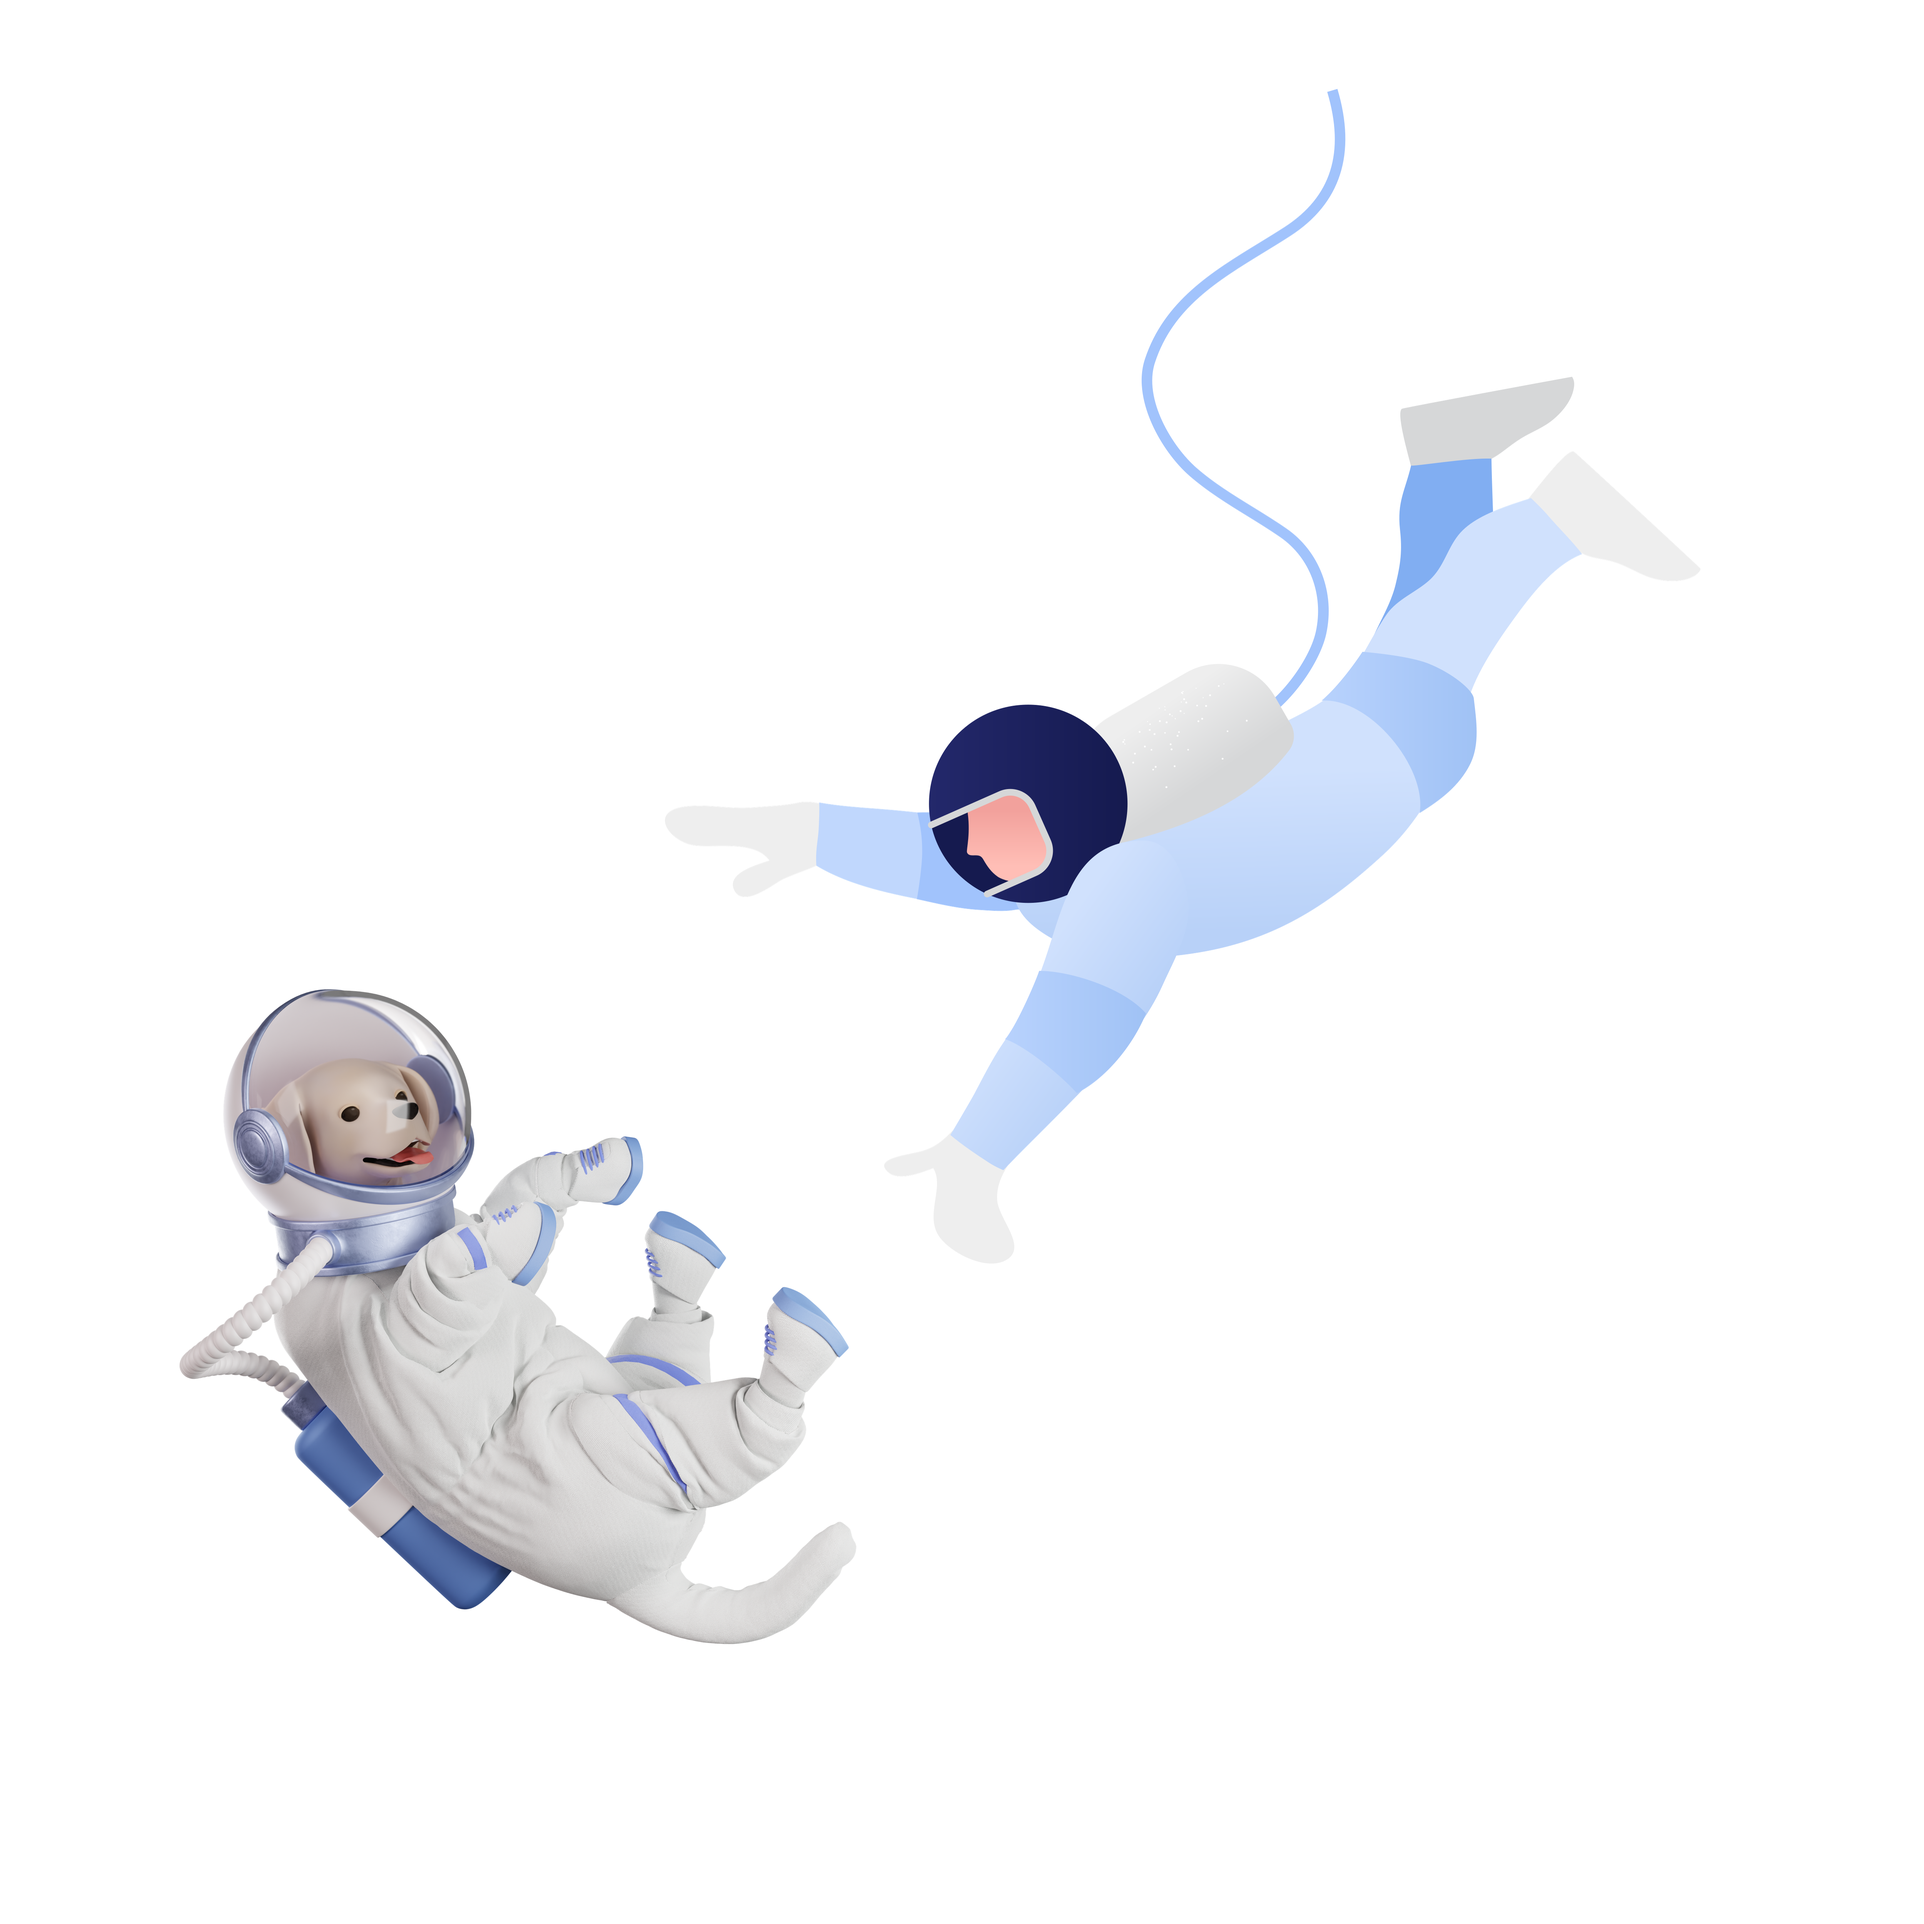
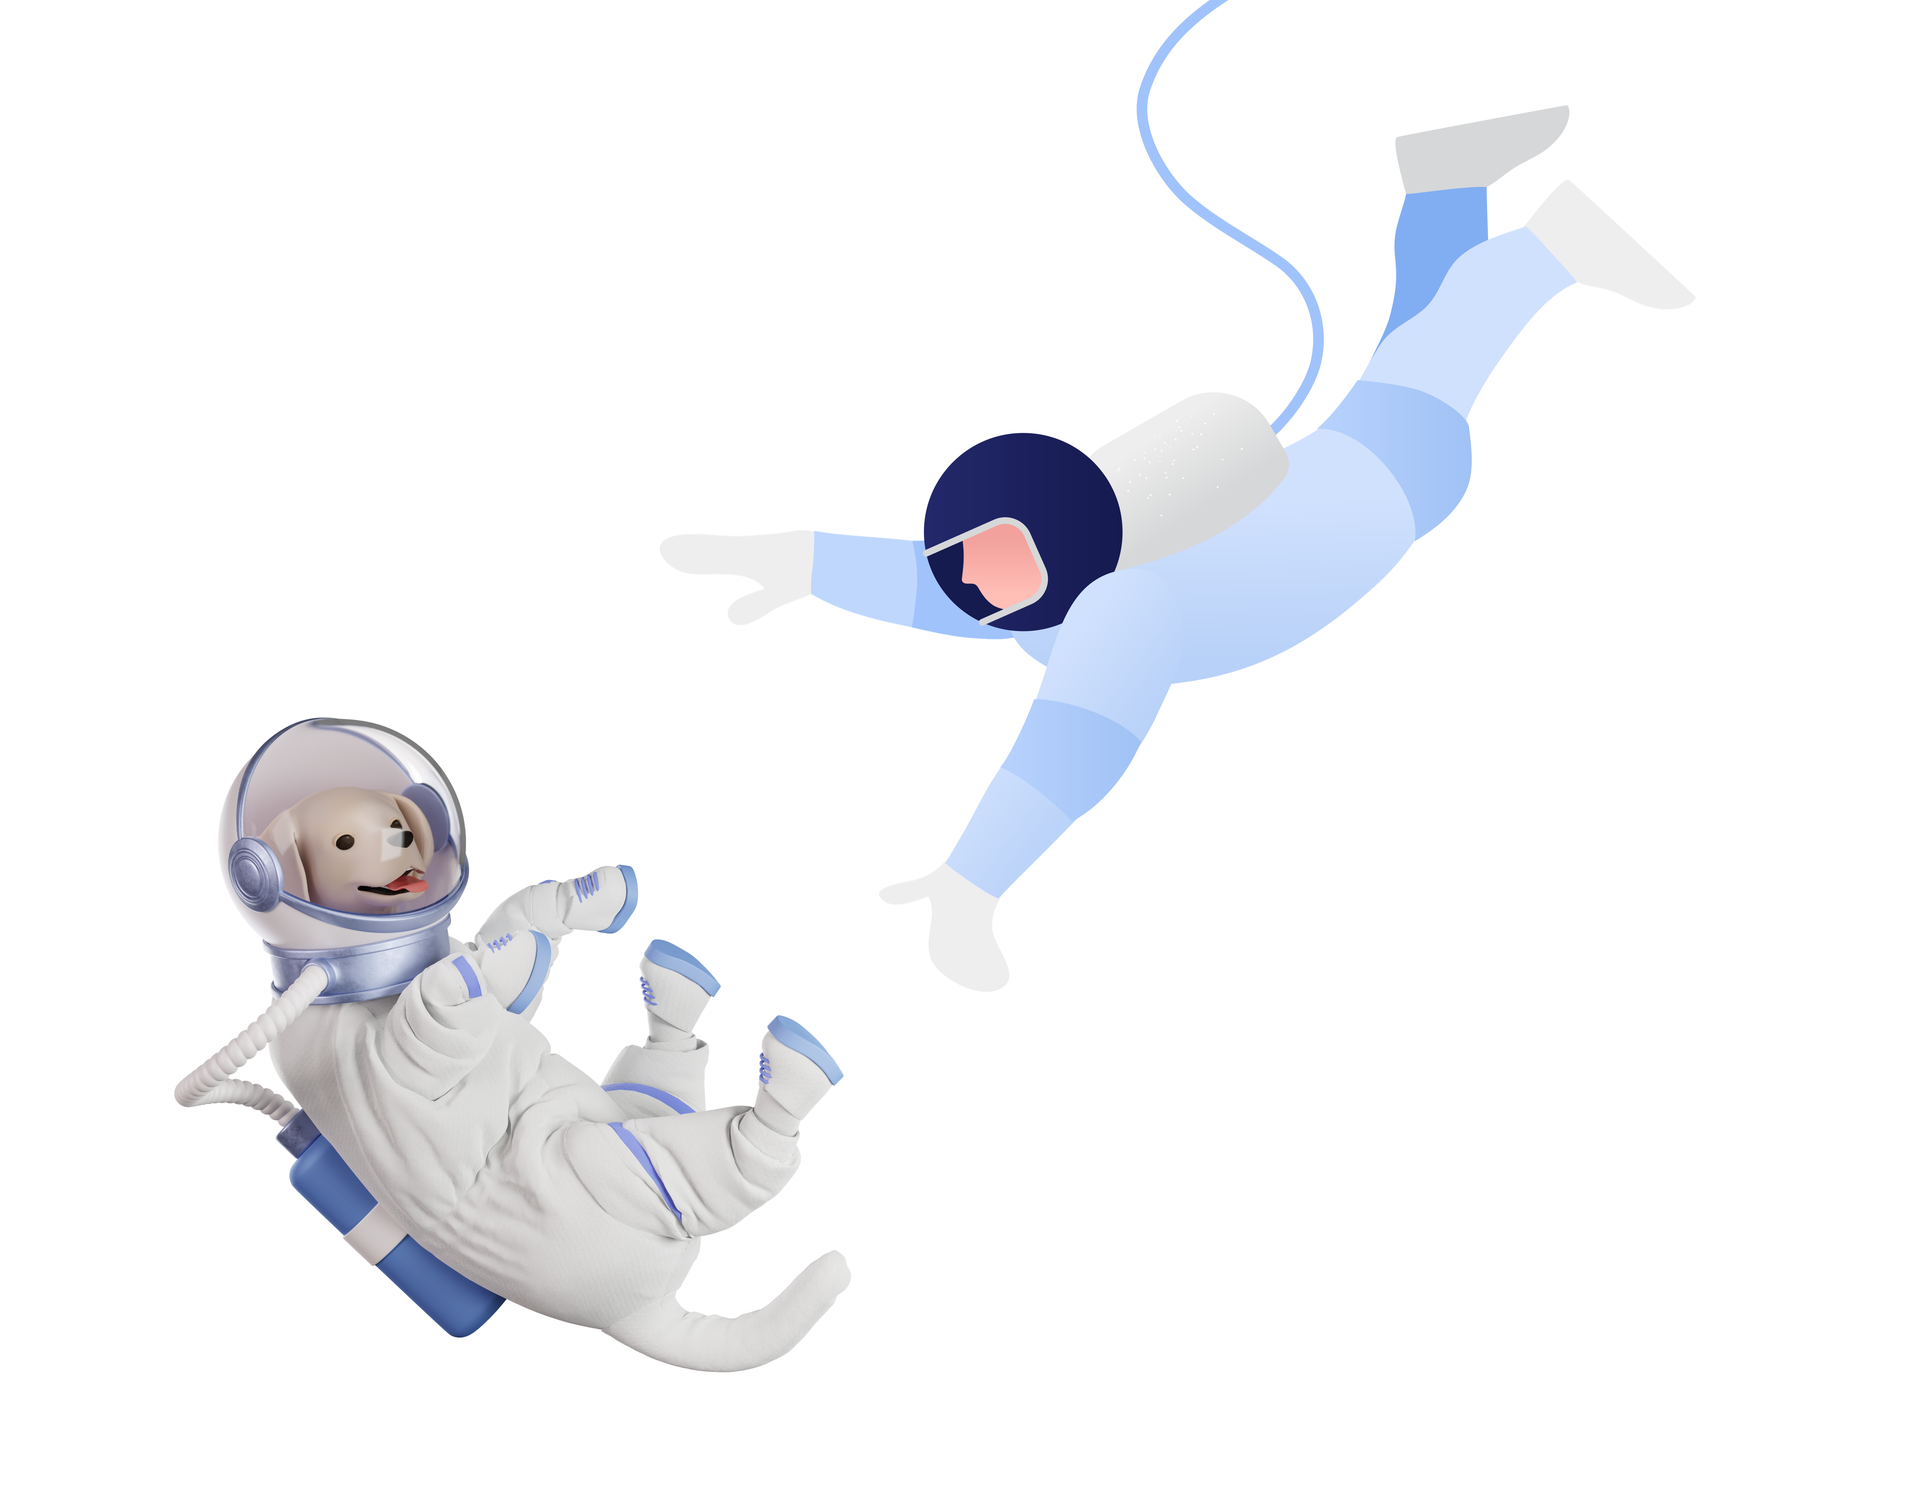
final text, cosmo animation, h-screen in IntroSign

diff --git a/src/components/About.jsx b/src/components/About.jsx
@@ -1,24 +1,13 @@
-import React, { useEffect, useRef } from 'react'
-import Image from 'next/image'
-import anime from 'animejs';
-
+import React from 'react'
 //imgages
-import Waitress from '../assets/images/waitress.png'
-import WebDeveloper from '../assets/images/laptopgirl.png'
-import aboutgirl from '../assets/images/aboutgirl.png'
-import CosmoDog from './CosmoDog';
+import CosmoDog from './CosmoDog'
 
 
 function About() {
 
   return (
   
-    <section id='about' className=' h-full w-full flex flex-col md:flex-row items-center justify-center'>
-
-      <div className='  w-full md:w-[45%] md:h-full text-center'>
-          {/*COSMO LEVITATING  */}
-            <CosmoDog />
-      </div>
+    <section id='about' className=' flex flex-col md:flex-row items-center justify-center'>
 
         {/* ABOUT ME TEXT */}
       <div className=' p-6 md:w-[45%] md:h-full xl:text-xl'>
@@ -26,16 +15,25 @@ function About() {
         <h3 className='text-m tracking-widest  uppercase py-2 border-b text-details border-details'>From Waitress to Web Developer</h3>
 
           <p className='py-2'>
-            After 14 adventurous years as a waitress, I was searching for my true calling. In January 2022, I enrolled in a <span className=' text-details uppercase'>MERN Full Stack Development Course</span>  in Germany, and it was a game-changer to me. 
+            After 14 adventurous years as a waitress, I was searching for my true calling. In January 2022, I signed up for a one year <span className=' text-details uppercase'>MERN Full Stack Development Course</span> by 
+            {' '}
+            <a className='underline' href="https://digitalcareerinstitute.org/courses/web-development/" target="_blank">Digital Career Institute</a>
+              {' '}
+              in Germany, and it was a game-changer to me. 
             <br />
-            Using my strategy talent, focus on user needs and strong teamwork skills, I'm now a web developer ready to create beautiful and user-friendly websites. 
+            Using my strategy talent, focus on user needs and strong teamwork skills, I'm now a web developer ready to create beautiful and user-friendly websites.
             <br />
             Graduating in February 2023, I'm always ready to expanding my skills and bringing humor, passion, and a thirst for learning to every project.
             <br />
 
-            <span className='my-4'>Let's work together to make the web a more exciting and accessible place! </span> 
+            <span className='mt-4'>Let's work together to make the web a more exciting and accessible place! </span> 
            </p>
 
+      </div>
+
+      <div className='  w-full md:w-[45%] md:h-full text-center'>
+          {/*COSMO LEVITATING  */}
+            <CosmoDog />
       </div>
 
     </section>

diff --git a/src/components/Hero.jsx b/src/components/Hero.jsx
@@ -3,6 +3,7 @@ import React from 'react'
 import { Link as LinkScroll } from 'react-scroll'
 //imgages
 import PersonalImg from '../assets/images/mypic-bg.png'
+// icons
 import {AiOutlineCheck} from 'react-icons/ai'
 
 function Hero() {
@@ -17,19 +18,19 @@ function Hero() {
         const mailtoLink = `mailto:${emailTo}?cc=${emailCC}&subject=${emailSub}&body=${emailBody}`;
       
         try {
-          const emailWindow = window.open(mailtoLink, "_blank");
+          const emailWindow = window.open(mailtoLink, "_blank")
       
           if (!emailWindow) {
-            throw new Error("Email client window not opened");
+            throw new Error("Email client window not opened")
           }
         } catch (error) {
           console.error(error);
-          alert("Oops, something went wrong. Please try again later or use a different contact option.");
+          alert('Oops, something went wrong. Please try again later or use a form below.')
         }
-      };
+      }
       
   return (
-    <section  id='hero' className=' w-full h-screen p-2 text-center'>
+    <section  id='hero' className=' w-full m-5 p-2 text-center '>
 
         <div className='max-w-[1240px]  w-full h-full mx-auto p-2 flex justify-center items-center flex-col sm:flex-row'>
 
@@ -39,8 +40,9 @@ function Hero() {
                 <h1 className='text-3xl sm:text-4xl text-left uppercase p'>A creative <br /> Frontend Developer,<br /> based in Germany.</h1>
 
 
-                {/* LIST & CTA BUTTONS*/}
                 <div className='flex flex-row'>
+                    
+                {/* LIST */}
                     <div >
                         <ul className=' p-4 flex-col '>
 

diff --git a/src/components/CosmoDog.jsx b/src/components/CosmoDog.jsx
@@ -1,12 +1,12 @@
-import { useEffect, useRef, useState } from 'react';
-import anime from 'animejs';
+import { useEffect, useRef } from 'react'
+import anime from 'animejs'
 import Image from 'next/image'
 import cosmoDog from '../assets/images/cosmo-about.png'
 
 
 
 function CosmoDog() {
-  const levitationRef = useRef(null);
+  const levitationRef = useRef(null)
 
   useEffect(() => {
     const timeline = anime.timeline({
@@ -26,7 +26,7 @@ function CosmoDog() {
     timeline
       .add({
         duration: 3000,
-        translateY: -50
+        translateY: 30
       })
       
       .add({
@@ -39,7 +39,7 @@ function CosmoDog() {
   }, [])
 
   return (
-    <div ref={levitationRef}>
+    <div ref={levitationRef} >
         <Image src={cosmoDog} width='350px' height='350px'  />
 
     </div>

diff --git a/src/components/IntroSign.jsx b/src/components/IntroSign.jsx
@@ -26,10 +26,11 @@ useEffect(() => {
     <section 
     aria-labe='intro-sign'
     className='
-    flex justify-center mb-4'>
+    h-screen 
+    flex justify-center items-center mb-4'>
 
     <div 
-    className="w-[250px] h-[250px] top-28 
+    className="w-[250px] h-[250px] 
     relative stroke-current flex justify-center flex-wrap  animate-sign rounded-full shadow-expand">
         <div className='uppercase retro-sign absolute top-4'>
             <span >JavaScript</span>
